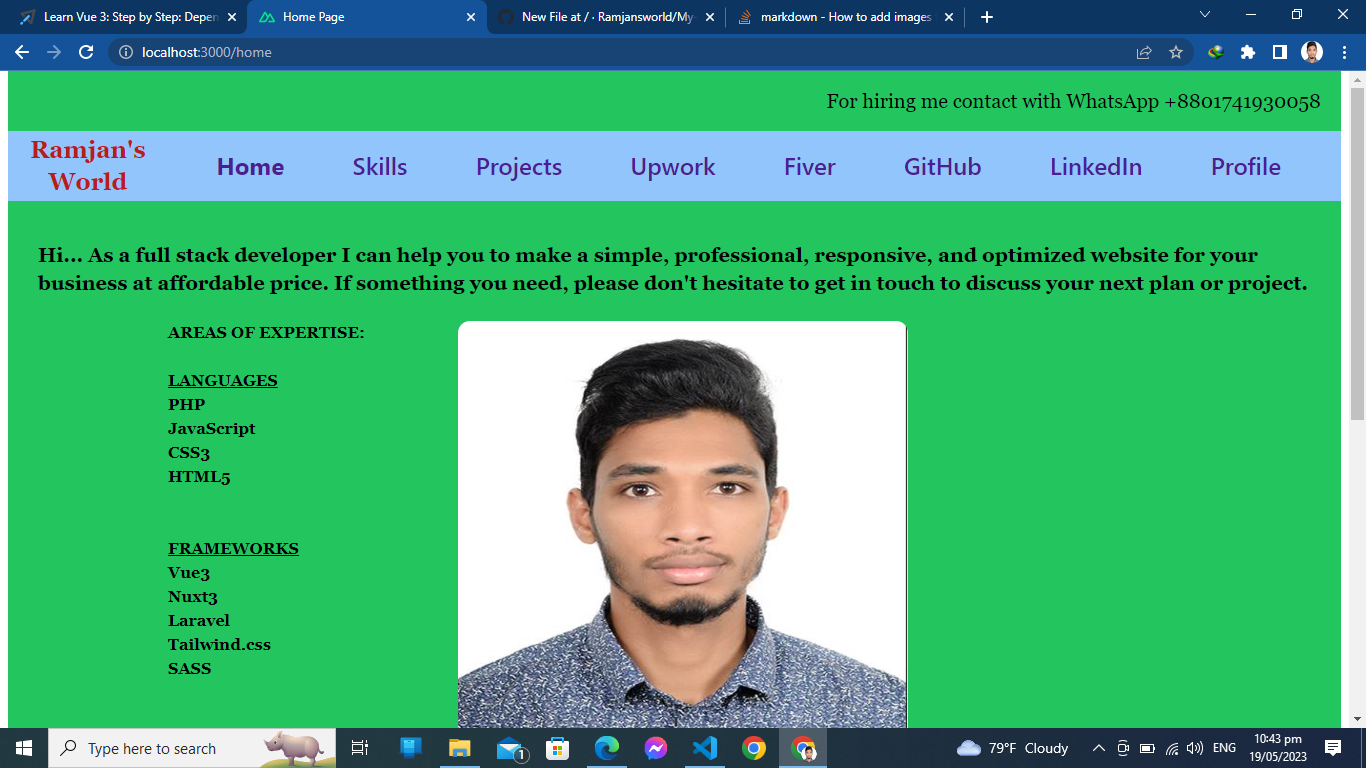
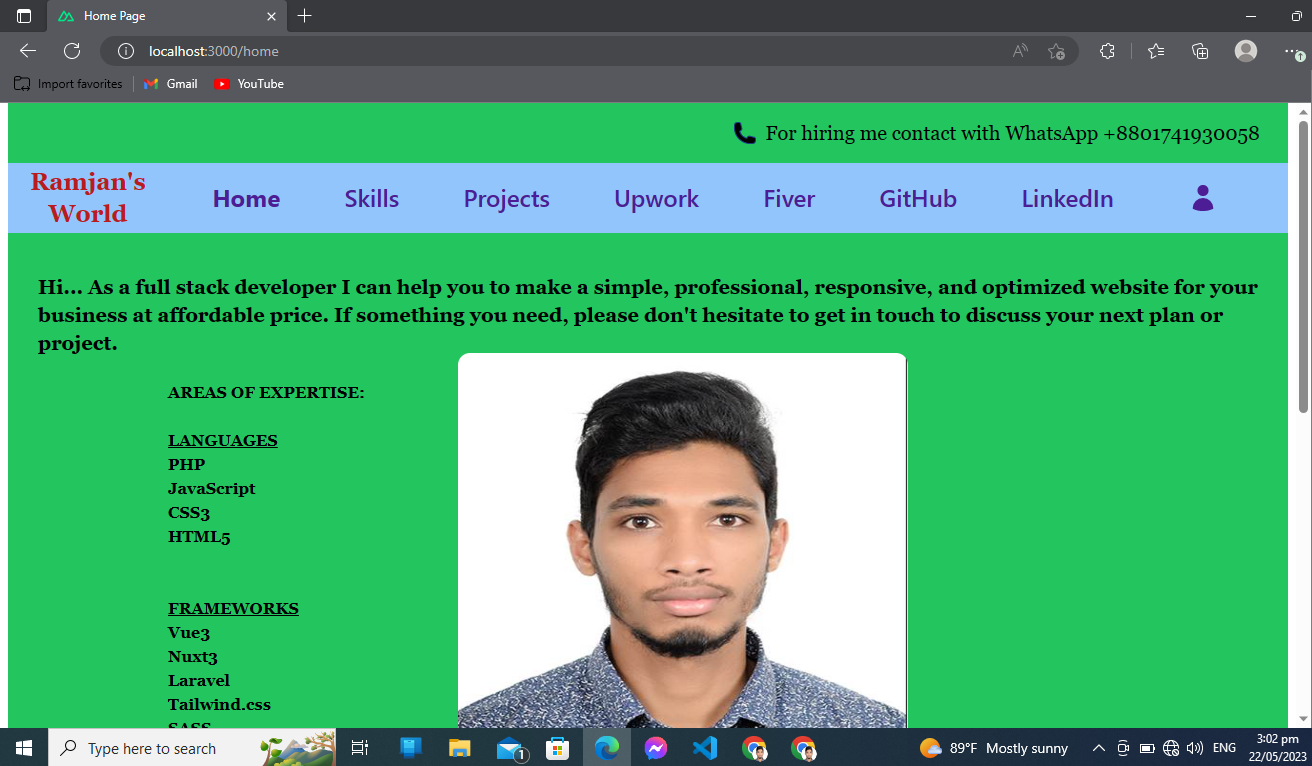
Final Commit

diff --git a/my-portfolio/layouts/default.vue b/my-portfolio/layouts/default.vue
@@ -1,14 +1,23 @@
 <template>
     <div>
       <Title>{{ title }}</Title>
-      <div
-        class="flex flex-row items-center justify-end bg-green-500 font-serif font-medium cursor-pointer text-xl mx-2 h-[60px] pr-[20px] w-auto"
+      <div class="flex flex-row items-center justify-end bg-green-500 mx-2">
+        <div>
+            <svg xmlns="http://www.w3.org/2000/svg" viewBox="0 0 24 24" fill="currentColor" class="w-6 h-6 stroke-blue-900">
+             <path fill-rule="evenodd" 
+             d="M1.5 4.5a3 3 0 013-3h1.372c.86 0 1.61.586 1.819 1.42l1.105 4.423a1.875 1.875 0 01-.694 1.955l-1.293.97c-.135.101-.164.249-.126.352a11.285 11.285 0 006.697 6.697c.103.038.25.009.352-.126l.97-1.293a1.875 1.875 0 011.955-.694l4.423 1.105c.834.209 1.42.959 1.42 1.82V19.5a3 3 0 01-3 3h-2.25C8.552 22.5 1.5 15.448 1.5 6.75V4.5z" clip-rule="evenodd" />
+           </svg>
+        </div>
+        <div
+        class="flex items-center font-serif font-medium cursor-pointer text-xl mx-2 h-[60px] pr-[20px] w-auto"
       >
         For hiring me contact with WhatsApp +8801741930058
       </div>
+      </div>
+      
       <nav>
         <ul
-          class="flex flex-row items-center justify-between text-2xl font-semibold bg-blue-300 mx-2 pl-[150px] pr-[60px] p-4 h-[70px] w-auto cursor-pointer"
+          class="flex flex-row items-center justify-between font-semibold bg-blue-300 mx-2 pl-[150px] text-2xl pr-[60px] p-4 h-[70px] w-auto cursor-pointer"
         >
           <li
             class="flex items-center justify-center text-red-700 text-center font-semibold font-serif rounded-full h-[68px] -ml-[130px] w-[120px]"
@@ -16,44 +25,48 @@
             <NuxtLink to="/logo">Ramjan's World</NuxtLink>
           </li>
           <li
-            class="text-violet-900 hover:text-blue-700 border-b-[3px] border-blue-300 hover:border-blue-500 transition duration-500"
+            class="text-violet-900 hover:text-blue-700 border-b-[3px] border-blue-300 hover:border-blue-500 duration-700"
           >
             <NuxtLink to="/home">Home</NuxtLink>
           </li>
           <li
-            class="text-violet-900 hover:text-blue-700 border-b-[3px] border-blue-300 hover:border-blue-500 transition duration-500"
+            class="text-violet-900 hover:text-blue-700 border-b-[3px] border-blue-300 hover:border-blue-500 duration-700"
           >
             <NuxtLink to="/skills">Skills</NuxtLink>
           </li>
           <li
-            class="text-violet-900 hover:text-blue-700 border-b-[3px] border-blue-300 hover:border-blue-500 transition duration-500"
+            class="text-violet-900 hover:text-blue-700 border-b-[3px] border-blue-300 hover:border-blue-500 duration-700"
           >
             <NuxtLink to="/projects">Projects</NuxtLink>
           </li>
           <li
-            class="text-violet-900 hover:text-blue-700 border-b-[3px] border-blue-300 hover:border-blue-500 transition duration-500"
+            class="text-violet-900 hover:text-blue-700 border-b-[3px] border-blue-300 hover:border-blue-500 duration-2000"
           >
             <NuxtLink to="/upwork">Upwork</NuxtLink>
           </li>
           <li
-            class="text-violet-900 hover:text-blue-700 border-b-[3px] border-blue-300 hover:border-blue-500 transition duration-500"
+            class="text-violet-900 hover:text-blue-700 border-b-[3px] border-blue-300 hover:border-blue-500 duration-700"
           >
             <NuxtLink to="/fiver">Fiver</NuxtLink>
           </li>
           <li
-            class="text-violet-900 hover:text-blue-700 border-b-[3px] border-blue-300 hover:border-blue-500 transition duration-500"
+            class="text-violet-900 hover:text-blue-700 border-b-[3px] border-blue-300 hover:border-blue-500 duration-700"
           >
             <NuxtLink to="/github">GitHub</NuxtLink>
           </li>
           <li
-            class="text-violet-900 hover:text-blue-700 border-b-[3px] border-blue-300 hover:border-blue-500 transition duration-500"
+            class="text-violet-900 hover:text-blue-700 border-b-[3px] border-blue-300 hover:border-blue-500 duration-700"
           >
             <NuxtLink to="/linkedin">LinkedIn</NuxtLink>
           </li>
           <li
-            class="text-violet-900 hover:text-blue-700 border-b-[3px] border-blue-300 hover:border-blue-500 transition duration-500"
+            class="text-violet-900 hover:text-blue-700"
           >
-            <NuxtLink to="/profile">Profile</NuxtLink>
+            <NuxtLink to="/profile">
+                <svg xmlns="http://www.w3.org/2000/svg" viewBox="0 0 24 24" fill="currentColor" class="w-[50px] h-[30px] stroke-stroke-blue-700">
+                  <path fill-rule="evenodd" d="M7.5 6a4.5 4.5 0 119 0 4.5 4.5 0 01-9 0zM3.751 20.105a8.25 8.25 0 0116.498 0 .75.75 0 01-.437.695A18.683 18.683 0 0112 22.5c-2.786 0-5.433-.608-7.812-1.7a.75.75 0 01-.437-.695z" clip-rule="evenodd" />
+                </svg>
+            </NuxtLink>
           </li>
         </ul>
         <slot />

diff --git a/my-portfolio/pages/projects.vue b/my-portfolio/pages/projects.vue
@@ -11,7 +11,7 @@
           Lasy Loading etc.). For designing home page I added setinterval for JavaScript
           image slider with running a loop.
         </p>
-        <a herf="https://github.com/Ramjansworld/Walton-Web-Design" class="text-orange-700 cursor-pointer"
+        <a href="https://github.com/Ramjansworld/Walton-Web-Design" class="text-orange-700 cursor-pointer"
           ><u>https://github.com/Ramjansworld/Walton-Web-Design</u></a
         >
       </div>
@@ -27,7 +27,7 @@
           DevTools. From this platform vehicle owner's can take services for their vehicle
           at affordable price anywhere in Bangladesh.
         </p>
-        <a herf="https://github.com/Ramjansworld/Vehicle-Servicing-BD" class="text-orange-700 cursor-pointer"
+        <a href="https://github.com/Ramjansworld/Vehicle-Servicing-BD" class="text-orange-700 cursor-pointer"
           ><u>https://github.com/Ramjansworld/Vehicle-Servicing-BD</u>
         </a>
       </div>
@@ -50,7 +50,7 @@
           JavaScript, and Tailwind.css postcss plugins. For super fast SEO I chosed Vite.js
           DevTools.
         </p>
-        <a herf="https://github.com/Ramjansworld/Vet-Pet-Master" class="text-orange-700 cursor-pointer"
+        <a href="https://github.com/Ramjansworld/Vet-Pet-Master" class="text-orange-700 cursor-pointer"
           ><u>https://github.com/Ramjansworld/Vet-Pet-Master</u></a
         >
       </div>
@@ -63,7 +63,7 @@
           This project was about Lamborghini Car Purchase Cart Design. For developing and
           desiging this I used Vue.js composition API, JavaScript, and Tailwind.css.
         </p>
-        <a herf="https://github.com/Ramjansworld/Lamborghini-Car-Purchase-Cart-Design" class="text-orange-700 cursor-pointer"
+        <a href="https://github.com/Ramjansworld/Lamborghini-Car-Purchase-Cart-Design" class="text-orange-700 cursor-pointer"
           ><u>https://github.com/Ramjansworld/Lamborghini-Car-Purchase-Cart-Design</u></a
         >
       </div>
@@ -74,6 +74,21 @@
           class="h-[500px] w-[750px]"
         />
       </a>
+    </div>
+
+    <div class="flex flex-colm relative items-center justify-between mx-2 mt-[10px]">
+      <img src="Ramjans Portfolio.png" alt="image" class="h-[500px] w-[750px]" />
+      <div class="bg-white px-[40px] w-[600px]">
+        <h1 class="font-serif text-3xl font-bold text-blue-500">Project Description</h1>
+        <p class="font-semibold text-pink-700 text-md">
+          This project was my personal portfolio developed and designed by using Nuxt.js(Nuxt3)
+        , Vue.js composition API and Tailwind.css.
+
+        </p>
+        <a href="https://github.com/Ramjansworld/My-Portfolio/tree/master/my-portfolio" class="text-orange-700 cursor-pointer"
+          ><u>https://github.com/Ramjansworld/My-Portfolio/tree/master/my-portfolio</u></a
+        >
+      </div>
     </div>
   
     <div

diff --git a/my-portfolio/pages/github.vue b/my-portfolio/pages/github.vue
@@ -1,7 +1,7 @@
 <template>
-    <div class="flex flex-colm relative items-center justify-between mx-2 mt-[10px]">
+    <div class="flex flex-colm relative items-start justify-between mx-2 mt-[10px]">
     <Title>GitHub</Title>
-    <img src="GitHub Profile.png" alt="image" class="h-[500px] w-10/12" >
+    <img src="GitHub Profile.png" alt="image" class="h-[500px] w-[800px] " >
     <div class="bg-white px-5 ">
         <h1 class="text-blue-500 font-serif text-3xl font-bold">Profile Description</h1>
         <p class="text-pink-700 font-semibold text-md">Hi, I'm a frontend developer & designer having the efficiency of making a dynamic website by using Vue.js(Vue3), Nuxt3, JavaScript, and Tailwind.css  at affordable price based on client demands. If this is something you need, please don't hesitate to get in touch to discuss your next plan or project.
@@ -41,7 +41,9 @@ LEARNING
 ◑ PHP(Language)
 ◑ TypeScript(Language)
 ◑  Laravel(Framework)</p>
-        <a class="text-orange-700 cursor-pointer"><u>https://github.com/Ramjansworld?tab=repositories</u></a>
+        <a href="https://github.com/Ramjansworld?tab=repositories" class="text-orange-700 cursor-pointer">
+        <u>https://github.com/Ramjansworld?tab=repositories</u>
+        </a>
     </div>
 </div>
 <div

diff --git a/my-portfolio/pages/linkedin.vue b/my-portfolio/pages/linkedin.vue
@@ -1,7 +1,7 @@
 <template>
-    <div class="flex flex-colm relative items-center justify-between mx-2 mt-[10px]">
+    <div class="flex flex-colm relative items-start justify-between mx-2 mt-[10px]">
     <Title>LinkedIn</Title>
-    <img src="LinkedIn Profile.png" alt="image" class="h-[500px] w-10/12" >
+    <img src="LinkedIn Profile.png" alt="image" class="h-[500px] w-[800px]" >
     <div class="bg-white px-5 ">
         <h1 class="text-blue-500 font-serif text-3xl font-bold">Profile Description</h1>
         <p class="text-pink-700 font-semibold text-md"> Rocing on PHP, Laravel, Vue.js, Nuxt.js, JavaScript, Tailwind.css, and SASS.
@@ -41,7 +41,9 @@ LEARNING
 ◑ PHP(Language)
 ◑ TypeScript(Language)
 ◑  Laravel(Framework)</p>
-        <a class="text-orange-700 cursor-pointer"><u>https://www.linkedin.com/in/ramjan-ali-khandaker/</u></a>
+        <a href="https://www.linkedin.com/in/ramjan-ali-khandaker/" class="text-orange-700 cursor-pointer">
+        <u>https://www.linkedin.com/in/ramjan-ali-khandaker/</u>
+        </a>
     </div>
 </div>
 <div

diff --git a/my-portfolio/pages/upwork.vue b/my-portfolio/pages/upwork.vue
@@ -1,7 +1,7 @@
 <template>
-    <div class="flex flex-colm relative items-center justify-between mx-2 mt-[10px]">
+    <div class="flex flex-colm relative items-start justify-between mx-2 mt-[10px]">
       <Title>Upwork</Title>
-      <img src="Upwork Profile.png" alt="image" class="h-[500px] w-10/12" />
+      <img src="Upwork Profile.png" alt="image" class="h-[500px]  w-[800px]" />
       <div class="bg-white px-5">
         <h1 class="text-blue-500 font-serif text-3xl font-bold">Profile Description</h1>
         <p class="text-pink-700 font-semibold text-md">
@@ -15,7 +15,7 @@
           ◑ JavaScript ◑ Tailwind.css ◑ SASS ◑ CSS3 ◑ HTML5 OTHERS ◑ On Page SEO ◑ Off Page
           SEO LEARNING ◑ PHP(Language) ◑ TypeScript(Language) ◑ Laravel(Framework)
         </p>
-        <a class="text-orange-700 cursor-pointer"
+        <a href="https://www.upwork.com/freelancers/~0149d27fa5a43a4c21" class="text-orange-700 cursor-pointer"
           ><u>https://www.upwork.com/freelancers/~0149d27fa5a43a4c21</u></a
         >
       </div>

diff --git a/my-portfolio/pages/fiver.vue b/my-portfolio/pages/fiver.vue
@@ -1,10 +1,10 @@
 <template>
-    <div class="flex flex-colm relative items-center justify-between mx-2 mt-[10px]">
+    <div class="flex flex-colm relative items-start justify-between mx-2 mt-[10px]">
       <Title>Fiver</Title>
       <img 
          src="Fiver Profile.png" 
          alt="image" 
-         class="h-[500px] w-10/12"
+         class="h-[500px] w-[800px]"
       />
       <div class="bg-white px-5">
         <h1 class="text-blue-500 font-serif text-3xl font-bold">Profile Description</h1>
@@ -19,7 +19,7 @@
           ◑ JavaScript ◑ Tailwind.css ◑ SASS ◑ CSS3 ◑ HTML5 OTHERS ◑ On Page SEO ◑ Off Page
           SEO LEARNING ◑ PHP(Language) ◑ TypeScript(Language) ◑ Laravel(Framework)
         </p>
-        <a class="text-orange-700 cursor-pointer"
+        <a  href="https://www.fiverr.com/ramjan_127?up_rollout=true" class="text-orange-700 cursor-pointer"
           ><u>https://www.fiverr.com/ramjan_127?up_rollout=true</u></a
         >
       </div>

diff --git a/my-portfolio/pages/profile.vue b/my-portfolio/pages/profile.vue
@@ -28,7 +28,7 @@
             <br />
             <u>WhatsApp: +8801741930058</u>
             <br />
-            <a herf="https://www.ramjansworld.com">
+            <a href="https://www.ramjansworld.com">
               <u>Website: https://www.ramjansworld.com</u>
             </a>
           </div>
